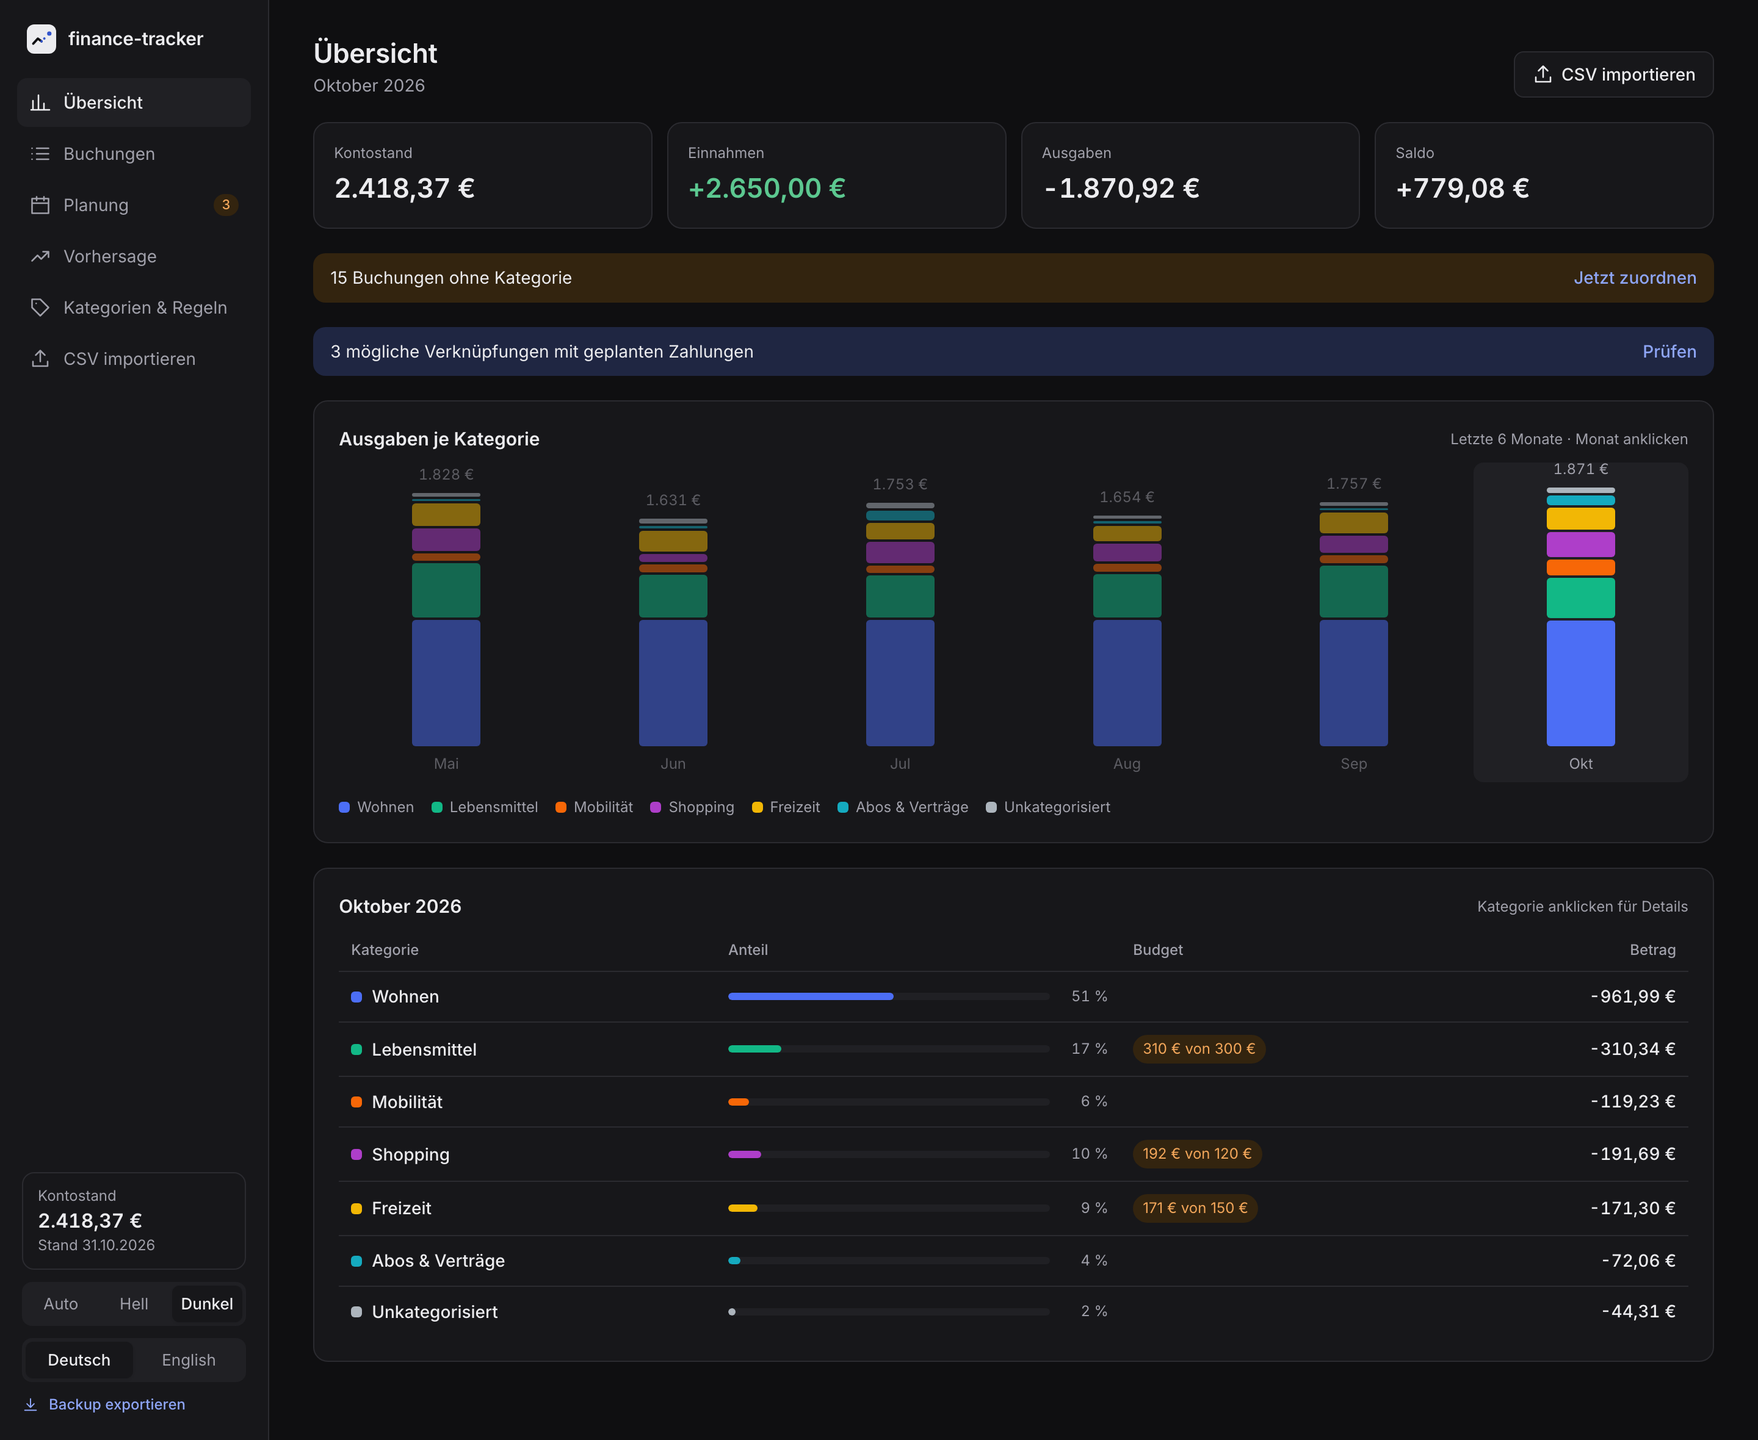
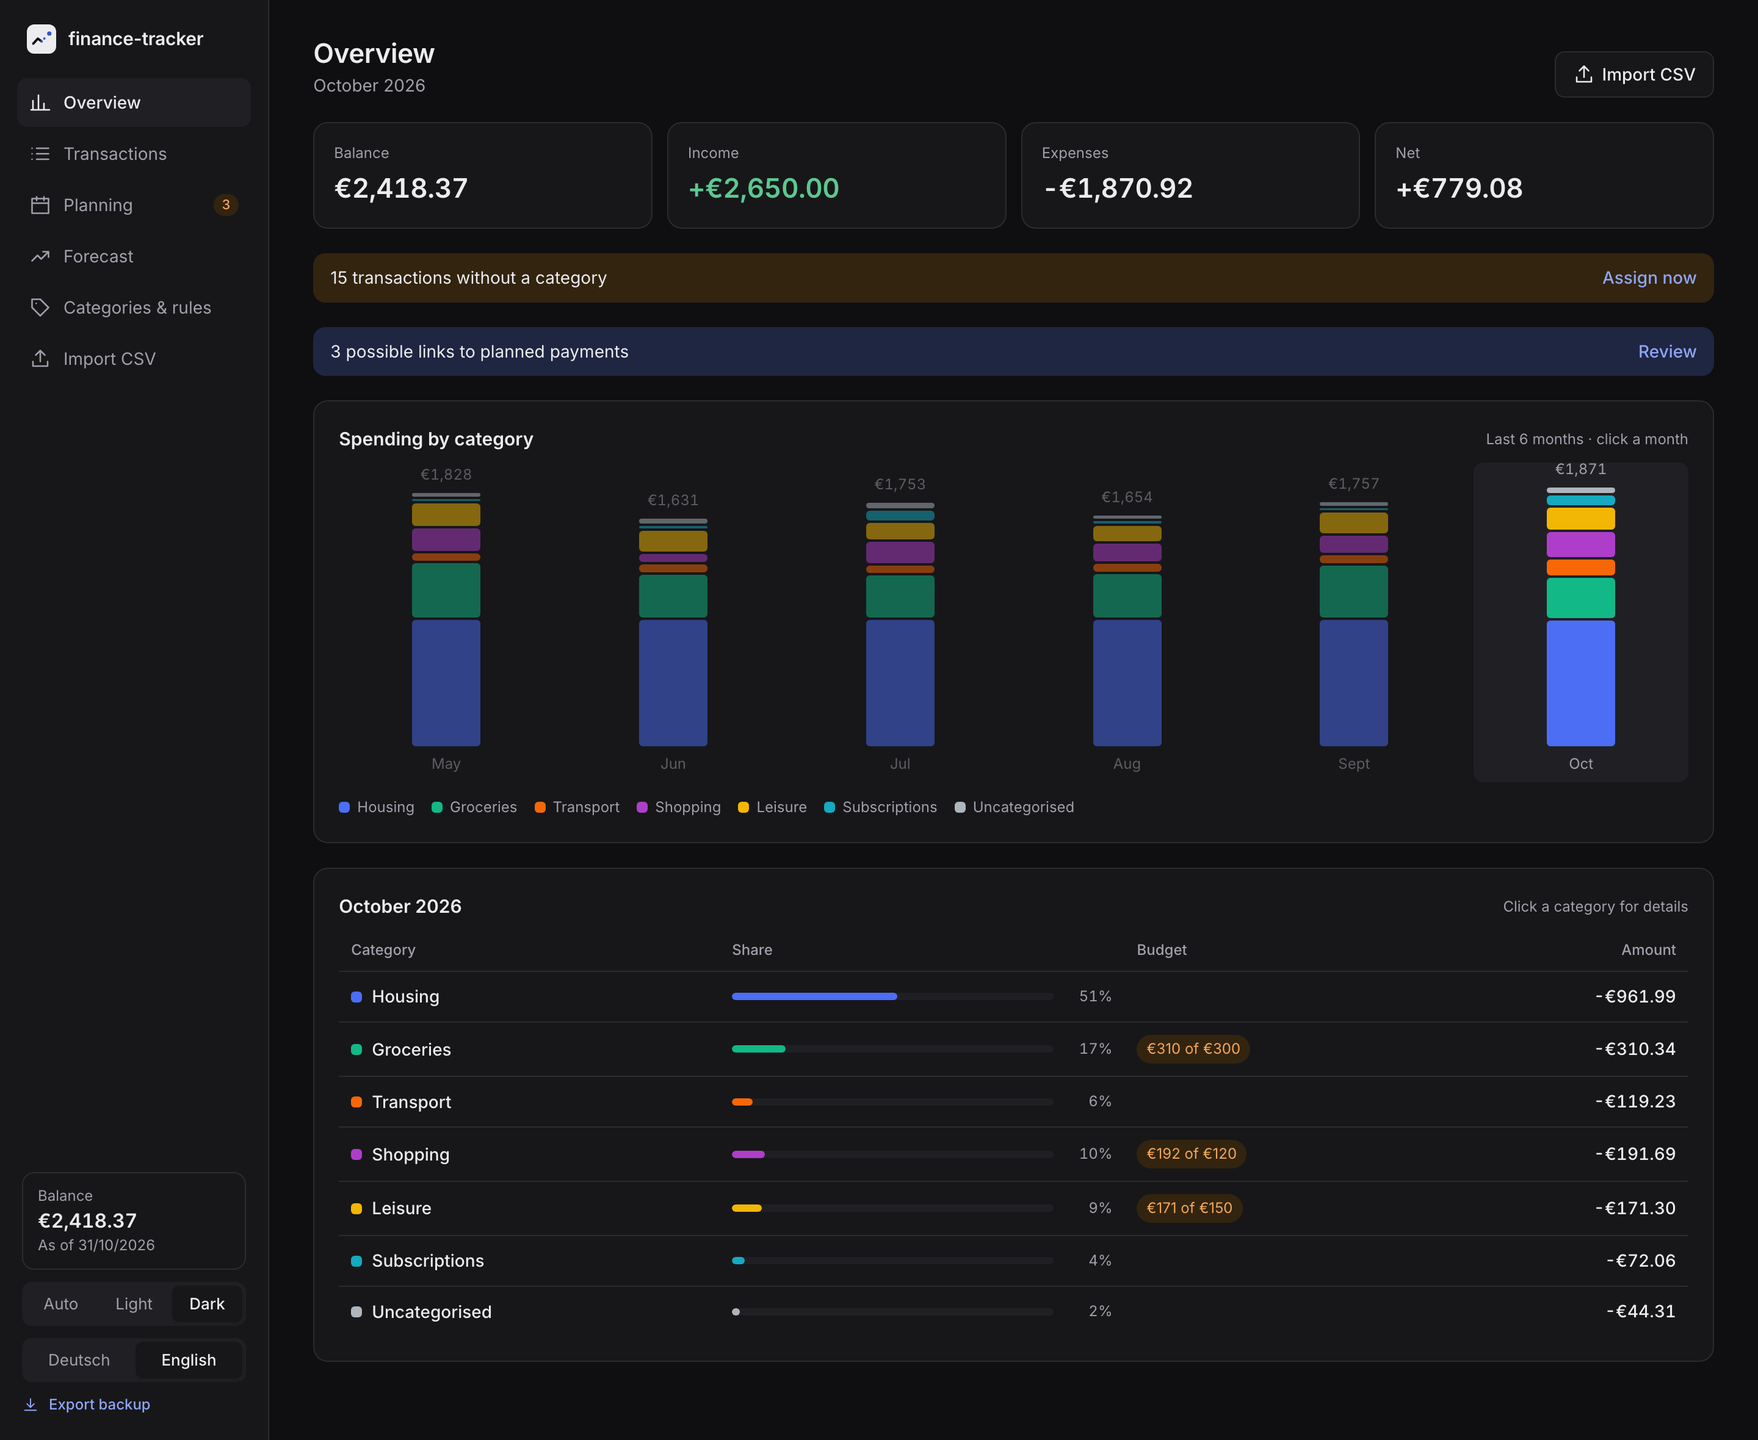
Shorten README, switch it to English with theme-aware screenshots
Screenshots exist in a light and a dark variant and follow the reader's
GitHub theme. The demo data now uses English names.

diff --git a/src/server/seed-demo.ts b/src/server/seed-demo.ts
@@ -93,7 +93,7 @@ const rules: [('exact' | 'starts' | 'contains'), string, string, string][] = [
   ['exact', 'CAFE LINDENBLATT', 'Café Lindenblatt', 'Lebensmittel › Bäckerei & Café'],
   ['exact', 'Baeckerei Kraus', 'Bäckerei Kraus', 'Lebensmittel › Bäckerei & Café'],
   ['contains', 'GOOGLE.ONE', 'Google One', 'Abos & Verträge › Cloud & Software'],
-  ['exact', 'Hausverwaltung Beispiel KG', 'Vermieter', 'Wohnen › Miete'],
+  ['exact', 'Hausverwaltung Beispiel KG', 'Landlord', 'Wohnen › Miete'],
   ['starts', 'Stadtwerke', 'Stadtwerke', 'Wohnen › Strom & Gas'],
   ['starts', 'Vodafone', 'Vodafone', 'Wohnen › Internet & Telefon'],
   ['exact', 'DB Vertrieb GmbH', 'Deutschlandticket', 'Mobilität › ÖPNV'],
@@ -101,14 +101,14 @@ const rules: [('exact' | 'starts' | 'contains'), string, string, string][] = [
   ['exact', 'Muster GmbH', 'Muster GmbH', 'Einnahmen › Gehalt'],
   ['starts', 'FITNESSPARK', 'Fitnesspark', 'Freizeit › Sport'],
   ['starts', 'STREAMLY', 'Streamly', 'Abos & Verträge › Streaming'],
-  ['starts', 'Mobilfunk Beispiel', 'Mobilfunk', 'Wohnen › Internet & Telefon'],
-  ['contains', 'Beitragsservice', 'Rundfunkbeitrag', 'Abos & Verträge › Gebühren'],
-  ['starts', 'Beispiel Versicherung', 'Haftpflicht', 'Abos & Verträge › Versicherungen'],
+  ['starts', 'Mobilfunk Beispiel', 'Mobile plan', 'Wohnen › Internet & Telefon'],
+  ['contains', 'Beitragsservice', 'TV licence', 'Abos & Verträge › Gebühren'],
+  ['starts', 'Beispiel Versicherung', 'Liability insurance', 'Abos & Verträge › Versicherungen'],
   ['exact', 'MODEHAUS BECKER', 'Modehaus Becker', 'Shopping › Kleidung'],
   ['exact', 'Drogerie Sonnenschein', 'Drogerie Sonnenschein', 'Shopping › Haushalt'],
   ['exact', 'TRATTORIA DA LUIGI', 'Da Luigi', 'Freizeit › Restaurants'],
   ['exact', 'SUSHI BAR KAITO', 'Sushi Kaito', 'Freizeit › Restaurants'],
-  ['exact', 'KINO AM PARK', 'Kino am Park', 'Freizeit › Kultur']
+  ['exact', 'KINO AM PARK', 'Park Cinema', 'Freizeit › Kultur']
 ];
 const payee: Record<string, number> = {};
 for (const [type, pattern, name, path] of rules) payee[name] = store.saveRule({ matchType: type, pattern, name, categoryId: cat(path) }).payeeId;
@@ -118,35 +118,35 @@ let firstQuarter = now - 11;
 while (firstQuarter % 3 !== 0) firstQuarter++;
 const march = Math.floor(now / 12) * 12 + 2;
 const recurring: [string, string, number, number, string][] = [
-  ['Gehalt', 'Muster GmbH', 265000, 1, start(11, 28)],
-  ['Miete', 'Vermieter', -85000, 1, start(11, 1)],
+  ['Salary', 'Muster GmbH', 265000, 1, start(11, 28)],
+  ['Rent', 'Landlord', -85000, 1, start(11, 1)],
   ['Deutschlandticket', 'Deutschlandticket', -5800, 1, start(11, 1)],
-  ['Fitnessstudio', 'Fitnesspark', -3500, 1, start(11, 3)],
-  ['Mobilfunk', 'Mobilfunk', -1400, 1, start(11, 5)],
+  ['Gym', 'Fitnesspark', -3500, 1, start(11, 3)],
+  ['Mobile plan', 'Mobile plan', -1400, 1, start(11, 5)],
   ['Streaming', 'Streamly', -1399, 1, start(11, 12)],
-  ['Strom', 'Stadtwerke', -6500, 1, start(11, 15)],
+  ['Electricity', 'Stadtwerke', -6500, 1, start(11, 15)],
   ['Internet', 'Vodafone', -3999, 1, start(11, 23)],
   ['Google One', 'Google One', -299, 1, start(11, 26)],
-  ['Rundfunkbeitrag', 'Rundfunkbeitrag', -5508, 3, dateInMonth(firstQuarter, 15)],
-  ['Haftpflichtversicherung', 'Haftpflicht', -6840, 12, dateInMonth(march <= now ? march : march - 12, 1)]
+  ['TV licence', 'TV licence', -5508, 3, dateInMonth(firstQuarter, 15)],
+  ['Liability insurance', 'Liability insurance', -6840, 12, dateInMonth(march <= now ? march : march - 12, 1)]
 ];
 const ids: Record<string, number> = {};
 for (const [name, p, amount, frequency, startDate] of recurring) {
-  ids[name] = store.createPlan({ type: 'recurring', name, payeeId: payee[p], frequency, startDate, amount, endDate: name === 'Fitnessstudio' ? monthEnd(now + 5) : null });
+  ids[name] = store.createPlan({ type: 'recurring', name, payeeId: payee[p], frequency, startDate, amount, endDate: name === 'Gym' ? monthEnd(now + 5) : null });
 }
-store.addPlanAmount(ids.Miete, dateInMonth(now + 3, 1), -89000);
+store.addPlanAmount(ids.Rent, dateInMonth(now + 3, 1), -89000);
 
-for (const [path, amount] of [['Lebensmittel', -30000], ['Freizeit', -15000], ['Shopping', -12000]] as const) {
-  store.createPlan({ type: 'budget', name: path, categoryId: cat(path), startDate: start(11, 1), amount });
+for (const [path, name, amount] of [['Lebensmittel', 'Groceries', -30000], ['Freizeit', 'Leisure', -15000], ['Shopping', 'Shopping', -12000]] as const) {
+  store.createPlan({ type: 'budget', name, categoryId: cat(path), startDate: start(11, 1), amount });
 }
-store.createPlan({ type: 'oneoff', name: 'Inspektion Auto', categoryId: cat('Mobilität › Auto'), startDate: dateInMonth(now + 1, 20), amount: -35000 });
-store.createPlan({ type: 'oneoff', name: 'Weihnachtsgeschenke', categoryId: cat('Shopping'), startDate: dateInMonth(now + 2, 10), amount: -40000 });
-store.createPlan({ type: 'oneoff', name: 'Anzahlung Urlaub', categoryId: cat('Freizeit'), startDate: dateInMonth(now + 4, 1), amount: -60000 });
-store.createPlan({ type: 'oneoff', name: 'Steuererstattung', categoryId: cat('Einnahmen › Erstattungen'), startDate: dateInMonth(now + 5, 15), amount: 82000 });
-store.createPlan({ type: 'oneoff', name: 'Ersatzteil Fahrrad', payeeId: payee.Amazon, startDate: dateInMonth(now, 25), amount: -4500 });
+store.createPlan({ type: 'oneoff', name: 'Car service', categoryId: cat('Mobilität › Auto'), startDate: dateInMonth(now + 1, 20), amount: -35000 });
+store.createPlan({ type: 'oneoff', name: 'Christmas presents', categoryId: cat('Shopping'), startDate: dateInMonth(now + 2, 10), amount: -40000 });
+store.createPlan({ type: 'oneoff', name: 'Holiday deposit', categoryId: cat('Freizeit'), startDate: dateInMonth(now + 4, 1), amount: -60000 });
+store.createPlan({ type: 'oneoff', name: 'Tax refund', categoryId: cat('Einnahmen › Erstattungen'), startDate: dateInMonth(now + 5, 15), amount: 82000 });
+store.createPlan({ type: 'oneoff', name: 'Bike part', payeeId: payee.Amazon, startDate: dateInMonth(now, 25), amount: -4500 });
 
 // Link the past; leave this month's electricity, internet and the bike part open for the matching view.
-const keepOpen = new Set([ids.Strom, ids.Internet]);
+const keepOpen = new Set([ids.Electricity, ids.Internet]);
 const state = store.state();
 const current = (date: string) => monthIndex(date) === now;
 store.addMatches(suggestMatches(state).filter((s) => {
@@ -155,4 +155,15 @@ store.addMatches(suggestMatches(state).filter((s) => {
   return !(keepOpen.has(s.planId) && current(s.period));
 }));
 
-console.log(`Demo-Datenbank ${file}: ${store.state().transactions.length} Buchungen, ${store.state().plans.length} Planposten.`);
+// The demo is shown in English, so the default categories get English names.
+const EN: Record<string, string> = {
+  Wohnen: 'Housing', Miete: 'Rent', 'Strom & Gas': 'Electricity & gas', 'Internet & Telefon': 'Internet & phone',
+  Lebensmittel: 'Groceries', Supermarkt: 'Supermarket', 'Bäckerei & Café': 'Bakery & café',
+  Mobilität: 'Transport', ÖPNV: 'Public transport', 'Bahn & Fernverkehr': 'Rail', Auto: 'Car',
+  Kleidung: 'Clothing', Haushalt: 'Household', Freizeit: 'Leisure', Kultur: 'Culture',
+  'Abos & Verträge': 'Subscriptions', 'Cloud & Software': 'Cloud & software', Versicherungen: 'Insurance', Gebühren: 'Fees',
+  Einnahmen: 'Income', Gehalt: 'Salary', Erstattungen: 'Refunds'
+};
+for (const c of store.state().categories) if (EN[c.name]) store.updateCategory(c.id, { name: EN[c.name] });
+
+console.log(`Demo database ${file}: ${store.state().transactions.length} transactions, ${store.state().plans.length} plans.`);

diff --git a/README.md b/README.md
@@ -1,187 +1,88 @@
 <p align="center">
   <picture>
     <source media="(prefers-color-scheme: dark)" srcset="docs/logo-dark.svg">
-    <img src="docs/logo.svg" width="72" height="72" alt="finance-tracker Logo">
+    <img src="docs/logo.svg" width="64" height="64" alt="finance-tracker logo">
   </picture>
 </p>
 
 <h1 align="center">finance-tracker</h1>
 
 <p align="center">
-  Minimalistischer, lokaler Finanz-Tracker: Kontoauszüge als CSV importieren,<br>
-  Ausgaben verstehen, Zahlungen planen und den Kontostand der nächsten Monate vorhersagen.
+  A minimal, local-first finance tracker: import bank CSV exports, see where your money goes,<br>
+  plan recurring payments and forecast your balance for the months ahead.
 </p>
 
 <p align="center">
-  <img src="docs/screenshots/overview.png" alt="Übersicht mit Ausgaben je Kategorie" width="900">
+  <picture>
+    <source media="(prefers-color-scheme: dark)" srcset="docs/screenshots/overview-dark.png">
+    <img src="docs/screenshots/overview-light.png" alt="Overview with spending by category" width="900">
+  </picture>
 </p>
 
----
+## Features
 
-## Warum?
-
-Die meisten Finanz-Apps wollen Bankzugang, ein Konto in der Cloud und zeigen dir zehn Dinge, die du nicht brauchst.
-**finance-tracker** macht nur das Nötige – und alles bleibt auf deinem Rechner:
-
-- 🔒 **Lokal & privat** – eine SQLite-Datei in `data/`, Server nur auf `127.0.0.1`, keine externen Requests (auch die Schrift ist eingebettet).
-- 📥 **CSV statt Bank-API** – Export aus dem Online-Banking hochladen, fertig. Dubletten werden erkannt.
-- 🔮 **Vorhersage** – regelmäßige Zahlungen, Budgets und erwartete Einzelzahlungen ergeben den Kontostand für 1 bis 36 Monate.
-- 🌗 **Hell & dunkel, Deutsch & Englisch.**
-
-## Funktionen
-
-### Übersicht & Kategorien
-Monatliche Ausgaben je Kategorie als gestapelte Balken, darunter die Aufteilung des gewählten Monats mit Budget-Stand.
-Ein Klick auf eine Kategorie zeigt die Unterkategorien im Verlauf und die zugehörigen Buchungen.
+- **Private by design** – one SQLite file, server bound to `127.0.0.1`, no external requests.
+- **CSV import** – bank detected automatically, duplicates skipped, pending bookings ignored. Ships with DKB; other banks plug in as importer modules.
+- **Payee rules** – turn `AMAZON EU S.A R.L., NIEDERLASSUNG…` into *Amazon* (exact / starts with / contains), for past and future imports.
+- **Categories** – two levels; assign a payee once and all its transactions follow.
+- **Planning** – recurring payments with amount changes, monthly budgets per category and expected one-off payments.
+- **Matching** – bookings are suggested for planned payments; you confirm each link yourself.
+- **Forecast** – balance for 1 to 36 months, broken down month by month.
+- Light & dark theme, English & German.
 
 <p align="center">
-  <img src="docs/screenshots/category.png" alt="Kategorie-Detail mit Unterkategorien und Budget" width="900">
-</p>
-
-### Buchungen, Gegenparteien & Namensregeln
-Aus kryptischen Namen wie `AMAZON EU S.A R.L., NIEDERLASSUNG DEUTSCHLAND` wird per Regel *„beginnt mit AMAZON → Amazon“*.
-Regeln (*exakt*, *beginnt mit*, *enthält*) gelten rückwirkend und für alle künftigen Imports.
-Jede Gegenpartei hat eine Kategorie – ihre Buchungen folgen automatisch.
-
-<p align="center">
-  <img src="docs/screenshots/transactions.png" alt="Buchungsliste mit Bearbeitungsfeld" width="900">
-</p>
-
-Eine Buchung lässt sich direkt **als regelmäßig markieren** (Frequenz, Betrag, Laufzeit).
-Frühere Buchungen derselben Gegenpartei werden dabei zur Zuordnung vorgeschlagen; ähnliche Beträge (±10 %) sind vorausgewählt.
-
-### Planung
-Drei Arten von Planposten:
-
-| | Beispiel | Besonderheit |
-|---|---|---|
-| **Regelmäßig** | Miete, Gehalt, Rundfunkbeitrag | monatlich, quartalsweise, halbjährlich oder jährlich; **Betragsänderungen ab Datum** |
-| **Budget** | Lebensmittel 300 €/Monat | immer an eine Kategorie gebunden; im laufenden Monat zählt nur der **Rest** |
-| **Einmalig erwartet** | Steuererstattung am 15.03. | wird erledigt, sobald die passende Buchung verknüpft ist |
-
-<p align="center">
-  <img src="docs/screenshots/planning.png" alt="Regelmäßige Zahlungen mit Status und Betragsänderungen" width="900">
+  <picture>
+    <source media="(prefers-color-scheme: dark)" srcset="docs/screenshots/transactions-dark.png">
+    <img src="docs/screenshots/transactions-light.png" alt="Transactions with the edit panel" width="900">
+  </picture>
 </p>
 
 <p align="center">
-  <img src="docs/screenshots/budgets.png" alt="Budgets je Kategorie" width="900">
+  <picture>
+    <source media="(prefers-color-scheme: dark)" srcset="docs/screenshots/planning-dark.png">
+    <img src="docs/screenshots/planning-light.png" alt="Recurring payments with status and amount changes" width="900">
+  </picture>
 </p>
-
-### Abgleich – nichts passiert ohne dich
-Nach jedem Import sucht der Tracker Buchungen, die zu geplanten Zahlungen passen (gleiche Gegenpartei, ähnlicher Betrag, Datum in der Nähe).
-**Jede Verknüpfung bestätigst oder lehnst du einzeln ab.** Weicht der Betrag ab, kann direkt eine Betragsänderung angelegt werden.
-Nicht verknüpfte Zahlungen werden nach ein paar Tagen als *überfällig* markiert und bleiben in der Vorhersage.
 
 <p align="center">
-  <img src="docs/screenshots/matching.png" alt="Abgleich von Buchungen mit geplanten Zahlungen" width="900">
+  <picture>
+    <source media="(prefers-color-scheme: dark)" srcset="docs/screenshots/matching-dark.png">
+    <img src="docs/screenshots/matching-light.png" alt="Matching bookings to planned payments" width="900">
+  </picture>
 </p>
-
-### Vorhersage
-Ausgehend vom Kontostand aus dem letzten Import: Rest des laufenden Monats plus 1, 3, 6, 12, 24 oder 36 Monate.
-Jeder Monat lässt sich bis auf die einzelnen Posten aufklappen.
 
 <p align="center">
-  <img src="docs/screenshots/forecast.png" alt="Vorhersage des Kontostands im Dark Mode" width="900">
+  <picture>
+    <source media="(prefers-color-scheme: dark)" srcset="docs/screenshots/forecast-dark.png">
+    <img src="docs/screenshots/forecast-light.png" alt="Balance forecast" width="900">
+  </picture>
 </p>
 
-### Kategorien & Regeln
-Zwei Ebenen (Kategorie → Unterkategorie), frei anlegbar, mit Farbe. Daneben alle Namensregeln und eine Liste der noch nicht kategorisierten Gegenparteien zum schnellen Zuordnen.
+## Getting started
 
-<p align="center">
-  <img src="docs/screenshots/categories.png" alt="Kategorienbaum und Namensregeln" width="900">
-</p>
-
-<table>
-  <tr>
-    <td width="68%"><img src="docs/screenshots/overview-dark.png" alt="Übersicht im Dark Mode"></td>
-    <td><img src="docs/screenshots/mobile.png" alt="Mobile Ansicht auf Englisch"></td>
-  </tr>
-  <tr>
-    <td align="center"><sub>Dark Mode</sub></td>
-    <td align="center"><sub>Schmale Fenster & Englisch</sub></td>
-  </tr>
-</table>
-
-## Schnellstart
-
-Voraussetzung: **Node.js ≥ 22.13** (nutzt das eingebaute `node:sqlite`, keine nativen Abhängigkeiten).
+Requires **Node.js ≥ 22.13** (uses the built-in `node:sqlite`).
 
 ```bash
 npm install
-npm start          # baut das Frontend und startet http://localhost:4321
+npm start        # builds and serves http://localhost:4321
+npm run demo     # same, with twelve months of invented demo data
 ```
 
-Dann unter **CSV importieren** den Export deiner Bank hochladen.
-Die Daten liegen in `data/finance.db` – für ein Backup diese Datei kopieren oder in der App *Backup exportieren* (JSON) nutzen.
+Your data lives in `data/finance.db` (`FT_DB` to change it, `PORT` for the port). Back it up by copying the file or via *Export backup*.
 
-### Ausprobieren mit Demo-Daten
+For development: `npm run dev` (Vite + API with hot reload), `npm test`, `npm run typecheck`.
 
-```bash
-npm run demo       # erzeugt data/demo.db mit 12 Monaten erfundener Buchungen und startet die App
-```
+## Adding a bank
 
-### Entwicklung
+An importer is a small module with `detect(text)` and `parse(text)` that returns rows in a common format
+(date, amount in cents, counterparty, purpose, …). Add it under [`src/server/importers/`](src/server/importers/),
+register it in `index.ts` and add an anonymised sample to `tests/fixtures/`. See [`dkb.ts`](src/server/importers/dkb.ts) for an example.
 
-```bash
-npm run dev        # API (tsx watch) + Vite mit Hot Reload auf http://localhost:5173
-npm test           # Vitest: Importer, Datenbank, Abgleich, Vorhersage
-npm run typecheck
-```
-
-| Variable | Standard | Bedeutung |
-|---|---|---|
-| `FT_DB` | `data/finance.db` | Pfad zur SQLite-Datei |
-| `PORT` | `4321` | Port des Servers |
-
-Theme und Sprache lassen sich auch per URL setzen, z. B. `?theme=dark&lang=en`.
-
-## CSV-Formate
-
-| Bank | Format | Erkannt an |
-|---|---|---|
-| DKB | Girokonto-Export (seit 2023, `;`-getrennt) | Spalten `Buchungsdatum`, `Zahlungsempfänger*in`, `Betrag (€)` |
-
-Vorgemerkte Buchungen werden übersprungen, der Kontostand aus dem Dateikopf wird als Startwert der Vorhersage übernommen.
-Dateien in UTF-8 und Windows-1252 werden beide gelesen.
-
-### Eine weitere Bank hinzufügen
-
-Ein Importer ist ein kleines Modul mit zwei Funktionen – der Rest der App bleibt unverändert:
-
-```ts
-// src/server/importers/meine-bank.ts
-import { parseCsv, parseGermanAmount, parseGermanDate } from './csv';
-import type { Importer } from './types';
-
-export const meineBank: Importer = {
-  id: 'meine-bank-giro',
-  name: 'Meine Bank Girokonto',
-  detect: (text) => text.includes('Buchungstag') && text.includes('Umsatz in EUR'),
-  parse: (text) => {
-    const [header, ...lines] = parseCsv(text);
-    // … jede Zeile in { date, valueDate, amount (Cent), counterparty, purpose, iban, type, pending } umwandeln
-    return { balance: null, rows: [], errors: [] };
-  }
-};
-```
-
-Dann in [`src/server/importers/index.ts`](src/server/importers/index.ts) registrieren und mit einer anonymisierten Beispieldatei in `tests/fixtures/` testen.
-Wichtig: `counterparty` ist immer die *andere* Seite – bei Ausgaben der Empfänger, bei Eingängen der Absender.
-
-## Aufbau
+## Project layout
 
 ```
-src/
-├── shared/      Fachlogik ohne I/O – Regeln, Planposten, Abgleich, Vorhersage, Statistik
-├── server/      Hono-API, SQLite-Store, Migrationen, Importer, Demo-Daten
-└── client/      React-Frontend (Vite), Seiten, Diagramme, i18n
-tests/           Vitest + anonymisierte CSV-Fixture
+src/shared   domain logic without I/O: rules, plans, matching, forecast, stats
+src/server   Hono API, SQLite store and migrations, importers, demo data
+src/client   React frontend (Vite)
+tests        Vitest with an anonymised CSV fixture
 ```
-
-- Beträge sind durchgehend **Integer-Cent**, Datumsangaben ISO-Strings ohne Zeitzone.
-- Der Server liefert den gesamten Zustand (`GET /api/state`); Auswertungen, Abgleich-Vorschläge und Vorhersage rechnet `src/shared` im Browser – für ein privates Girokonto mit einigen tausend Buchungen mehr als schnell genug.
-- Das Schema wird über `PRAGMA user_version` migriert.
-
-## Lizenz
-
-Privates Projekt.
